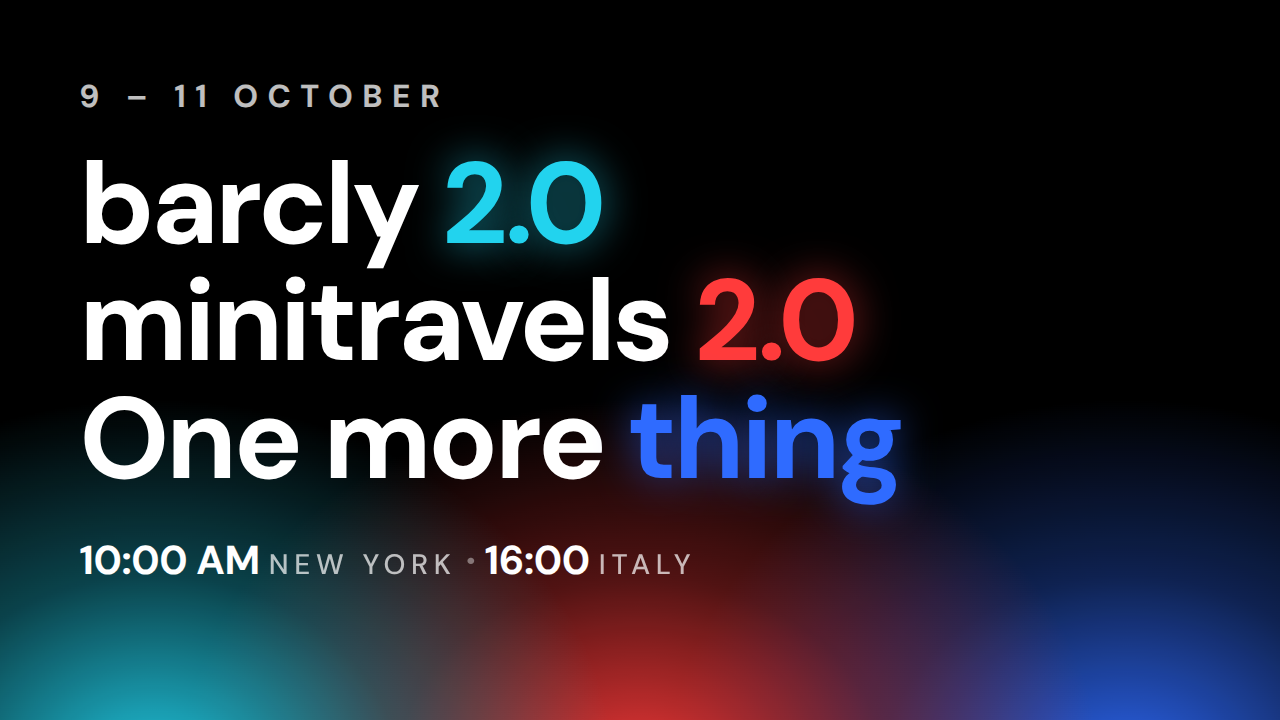
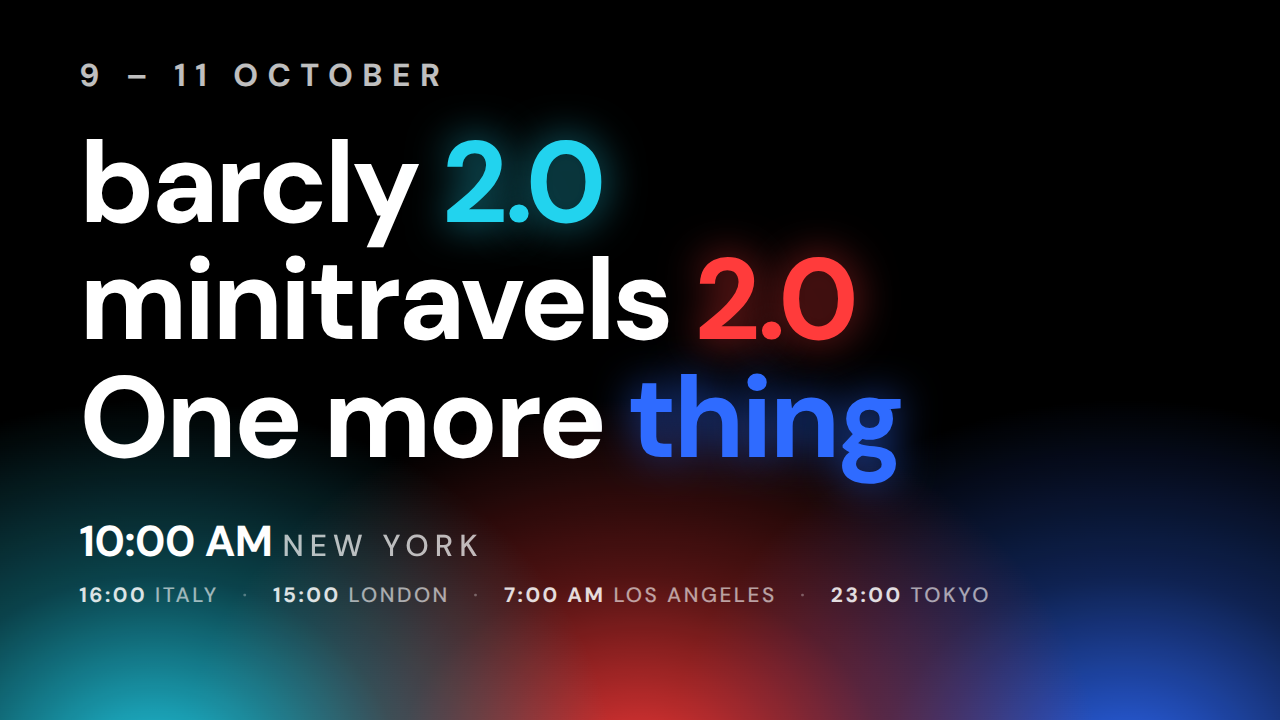
Thumbnail: New York time first, Italy and other cities small underneath
Claude-Session: https://claude.ai/code/session_01SGUcsPVxd7VWwihiM41tnF

diff --git a/src/Thumbnail.tsx b/src/Thumbnail.tsx
@@ -6,6 +6,14 @@ const CYAN = '#22d3ee';
 const RED = '#ff3b3b';
 const BLUE = '#2f6bff';
 
+// Same instant as 10:00 AM New York (EDT) on 9–11 Oct 2026
+const OTHER_TIMES = [
+  {time: '16:00', city: 'ITALY'},
+  {time: '15:00', city: 'LONDON'},
+  {time: '7:00 AM', city: 'LOS ANGELES'},
+  {time: '23:00', city: 'TOKYO'},
+];
+
 const Accent: React.FC<{color: string; children: React.ReactNode}> = ({color, children}) => (
   <span style={{color, textShadow: `0 0 0.35em ${color}aa`}}>{children}</span>
 );
@@ -75,13 +83,32 @@ export const Thumbnail: React.FC = () => {
           style={{
             marginTop: 5 * u,
             fontWeight: 700,
-            fontSize: (vertical ? 5.2 : 5.6) * u,
+            fontSize: (vertical ? 5.6 : 6) * u,
             letterSpacing: '-0.01em',
           }}
         >
           10:00 AM <span style={{fontWeight: 500, opacity: 0.7, fontSize: '0.7em', letterSpacing: '0.2em'}}>NEW YORK</span>
-          <span style={{opacity: 0.4}}>{'  ·  '}</span>
-          16:00 <span style={{fontWeight: 500, opacity: 0.7, fontSize: '0.7em', letterSpacing: '0.2em'}}>ITALY</span>
+        </div>
+        <div
+          style={{
+            marginTop: 1.6 * u,
+            fontWeight: 500,
+            fontSize: (vertical ? 2.9 : 2.9) * u,
+            letterSpacing: '0.12em',
+            color: 'rgba(255,255,255,.6)',
+            whiteSpace: 'pre',
+            display: vertical ? 'grid' : 'block',
+            gridTemplateColumns: '1fr 1fr',
+            rowGap: 1.2 * u,
+            columnGap: 5 * u,
+          }}
+        >
+          {OTHER_TIMES.map((z, i) => (
+            <span key={z.city}>
+              {i > 0 && !vertical && <span style={{opacity: 0.5}}>{'   ·   '}</span>}
+              <span style={{fontWeight: 700, color: 'rgba(255,255,255,.85)'}}>{z.time}</span> {z.city}
+            </span>
+          ))}
         </div>
       </AbsoluteFill>
     </AbsoluteFill>
